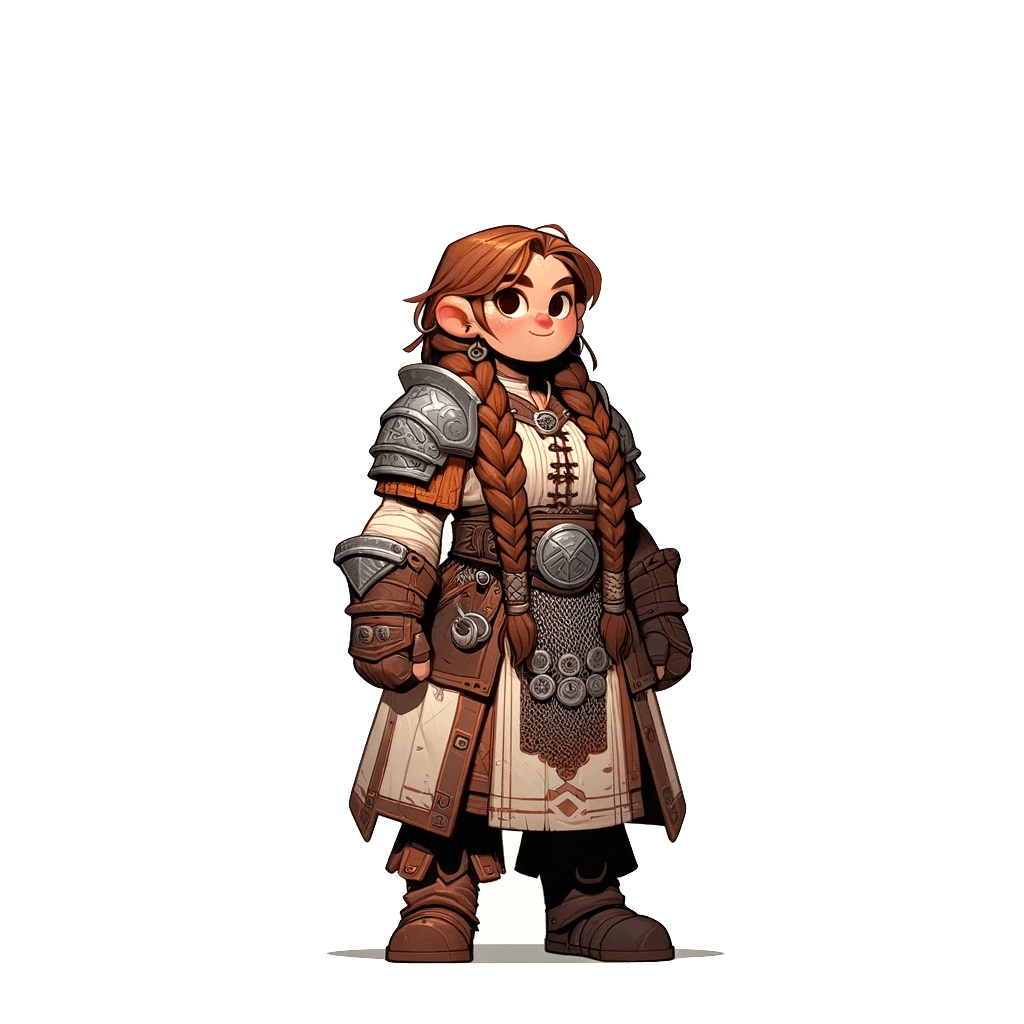
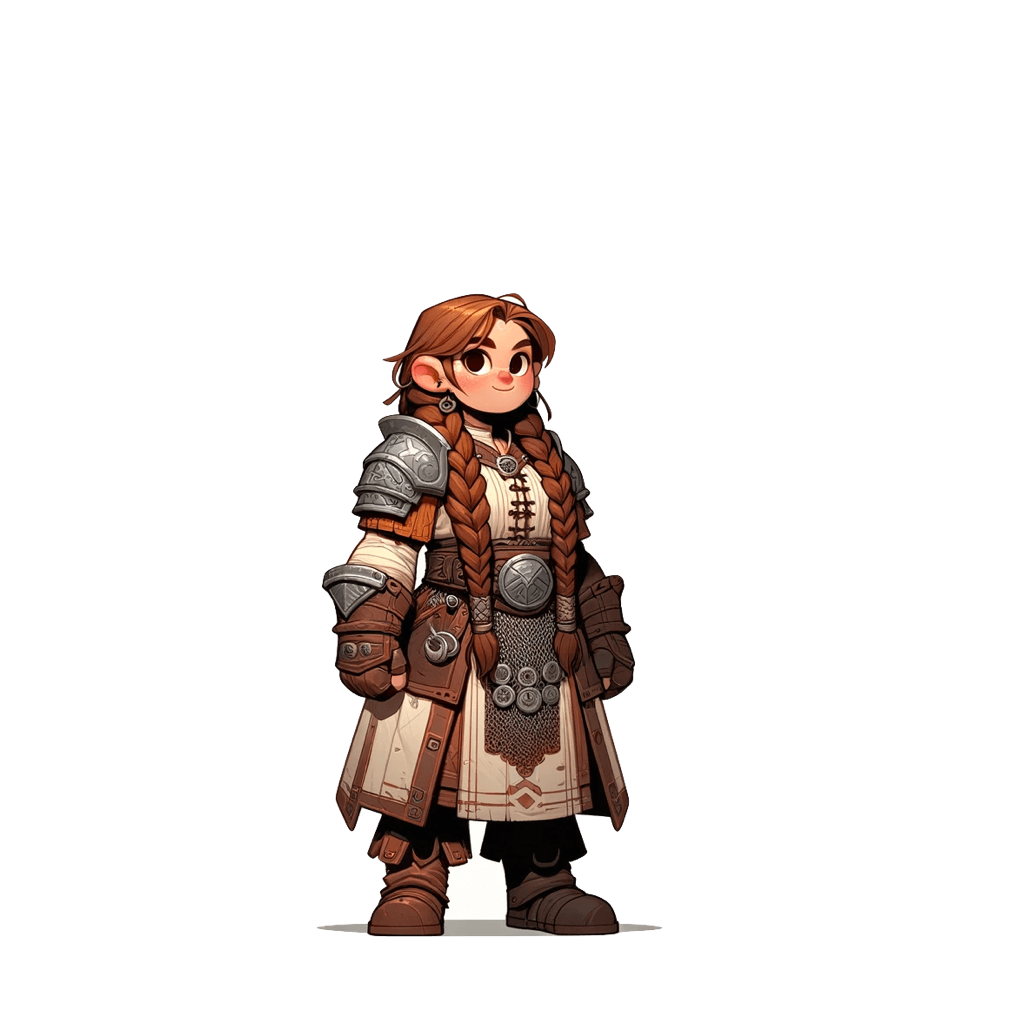
updated dwarf images to adjust heigths

Changed region(s): [[0.3125, 0.2188, 0.6875, 0.9688]]

diff --git a/src/components/Create.jsx b/src/components/Create.jsx
@@ -100,7 +100,7 @@ function Create() {
             </Select>
           </FormControl>
 
-          <FormControl fullWidth margin='normal'>
+          <FormControl fullWidth margin='normal' required>
             <InputLabel id='race-label'>Race</InputLabel>
             <Select
               labelId='race-label'
@@ -117,7 +117,7 @@ function Create() {
             </Select>
           </FormControl>
 
-          <FormControl fullWidth margin='normal'>
+          <FormControl fullWidth margin='normal' required>
             <InputLabel id='class-label'>Class</InputLabel>
             <Select
               labelId='class-label'

diff --git a/src/styles/SelectionCard.css b/src/styles/SelectionCard.css
@@ -11,7 +11,7 @@
 }
 
 .selection-card-image {
-  margin-top: 1rem !important;
+  margin: 1rem 0 3rem !important;
 }
 
 #card-area {
